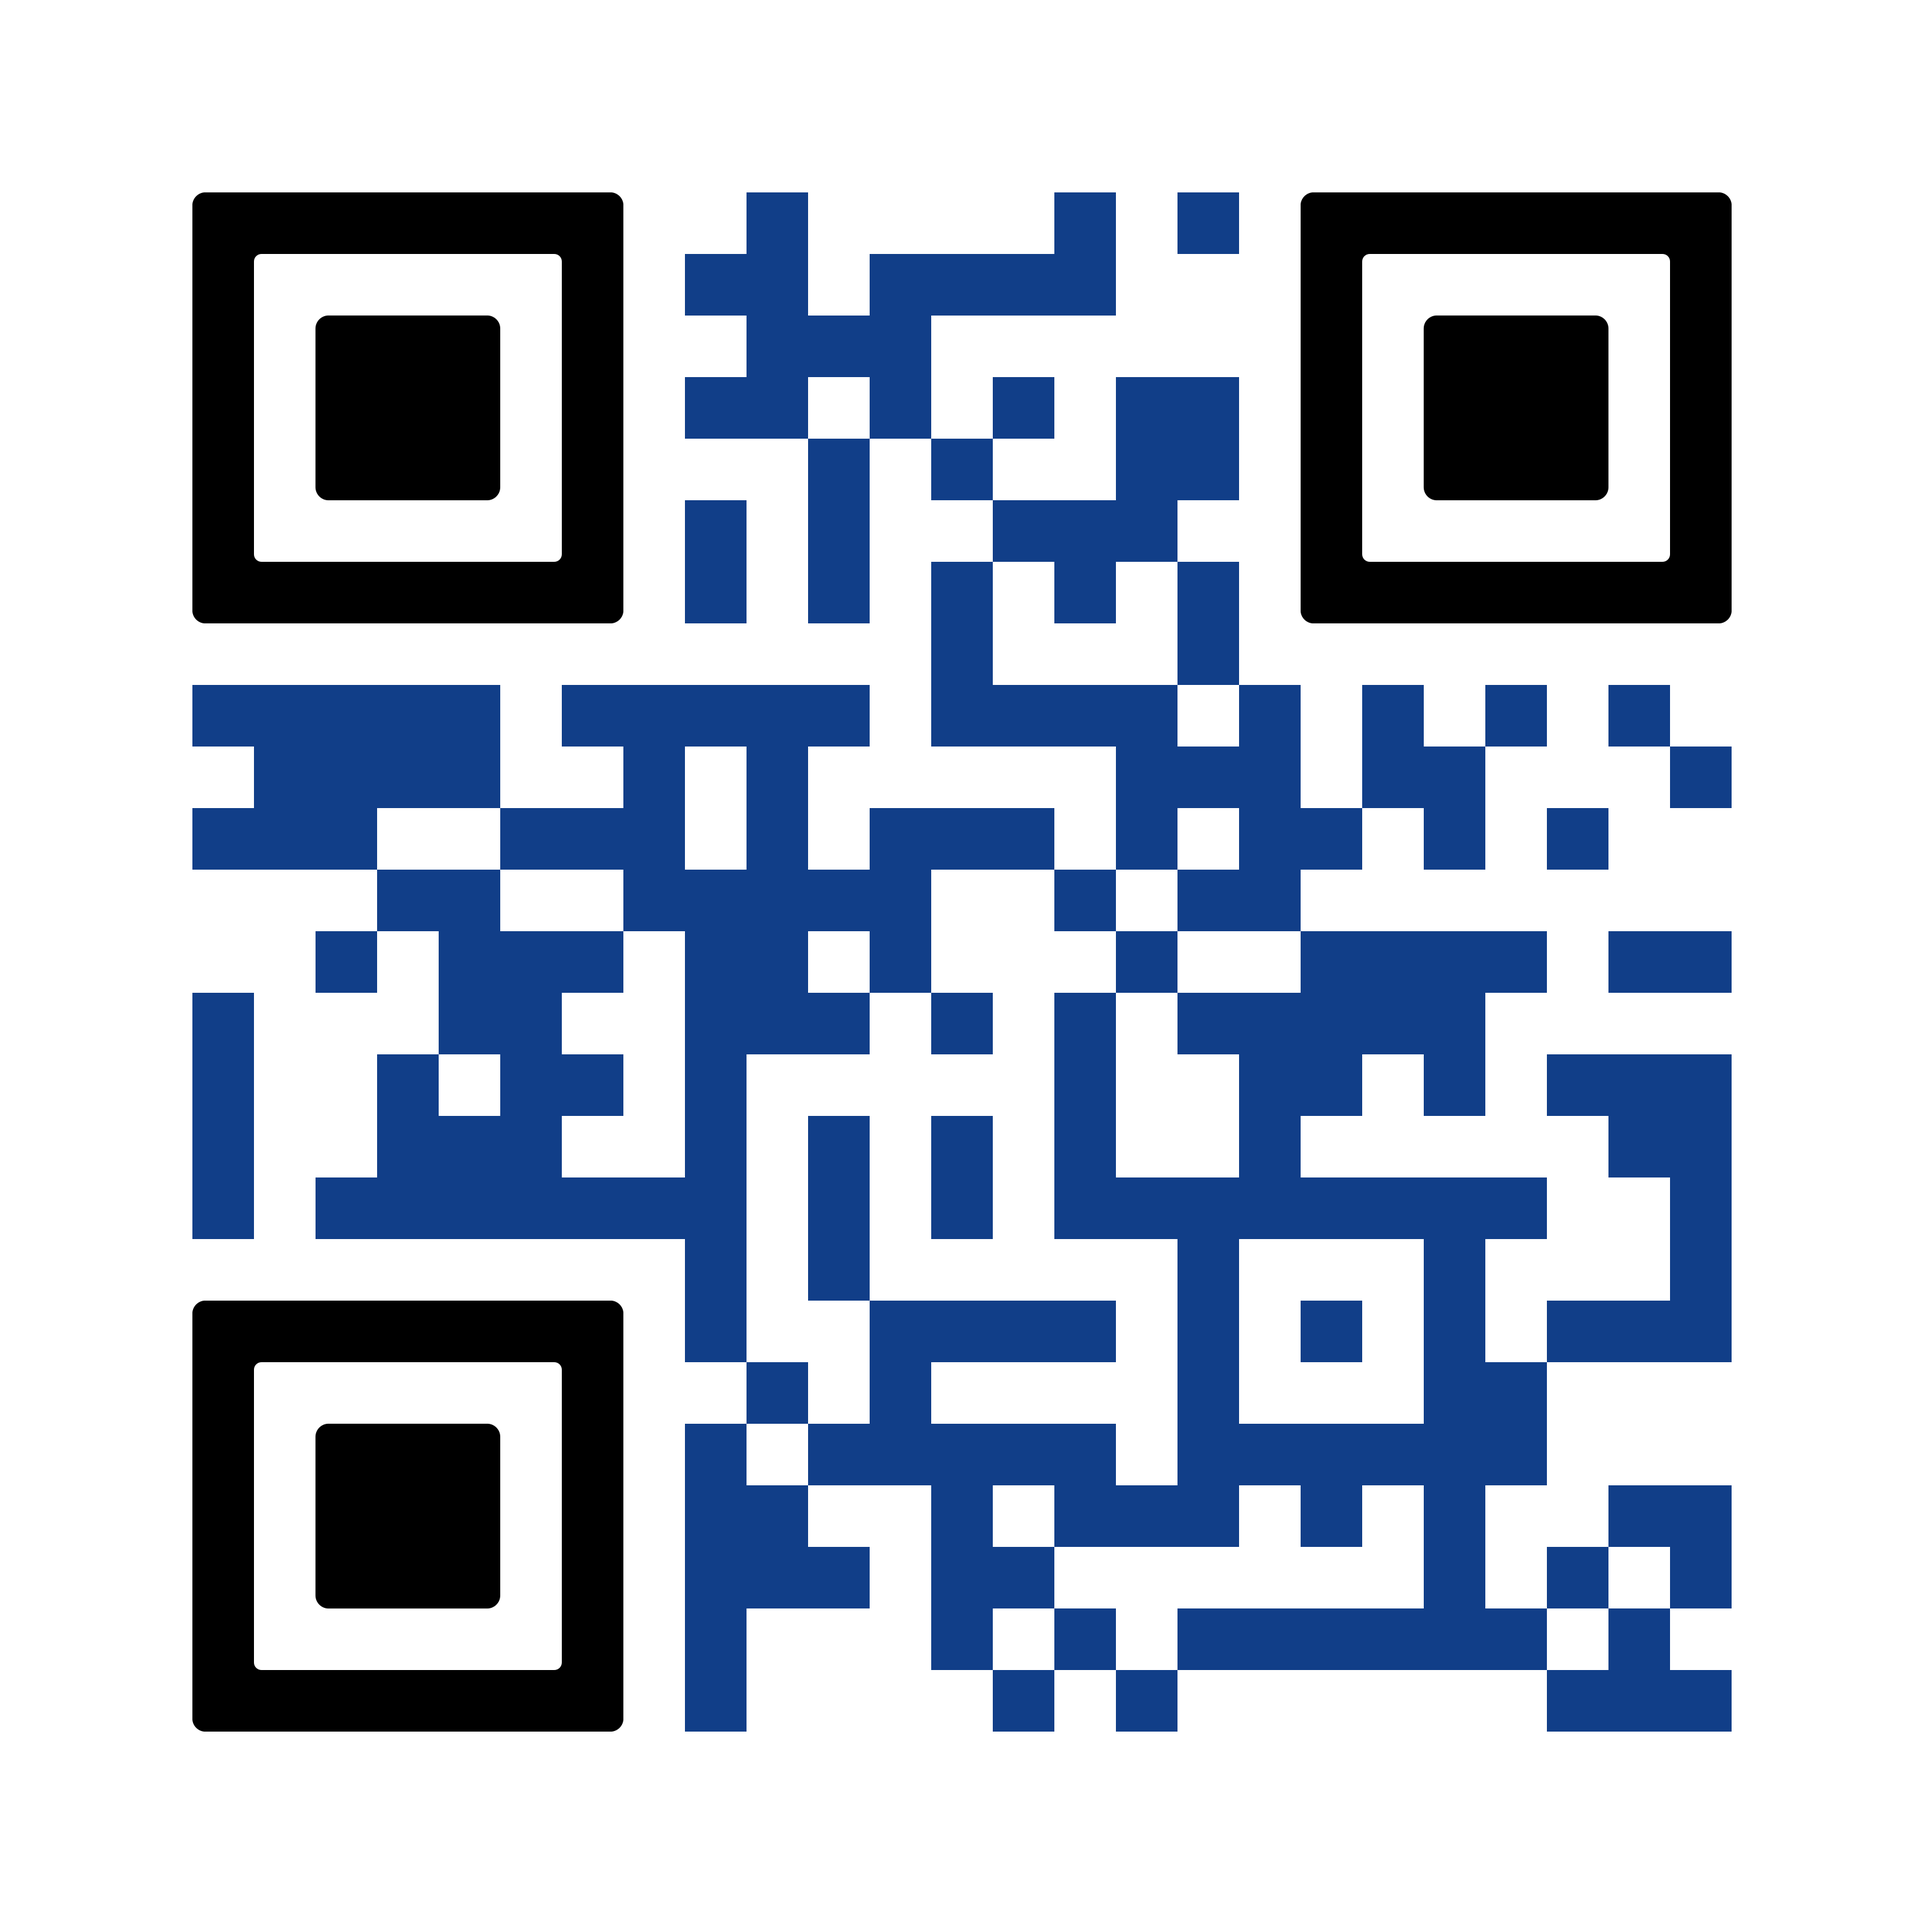
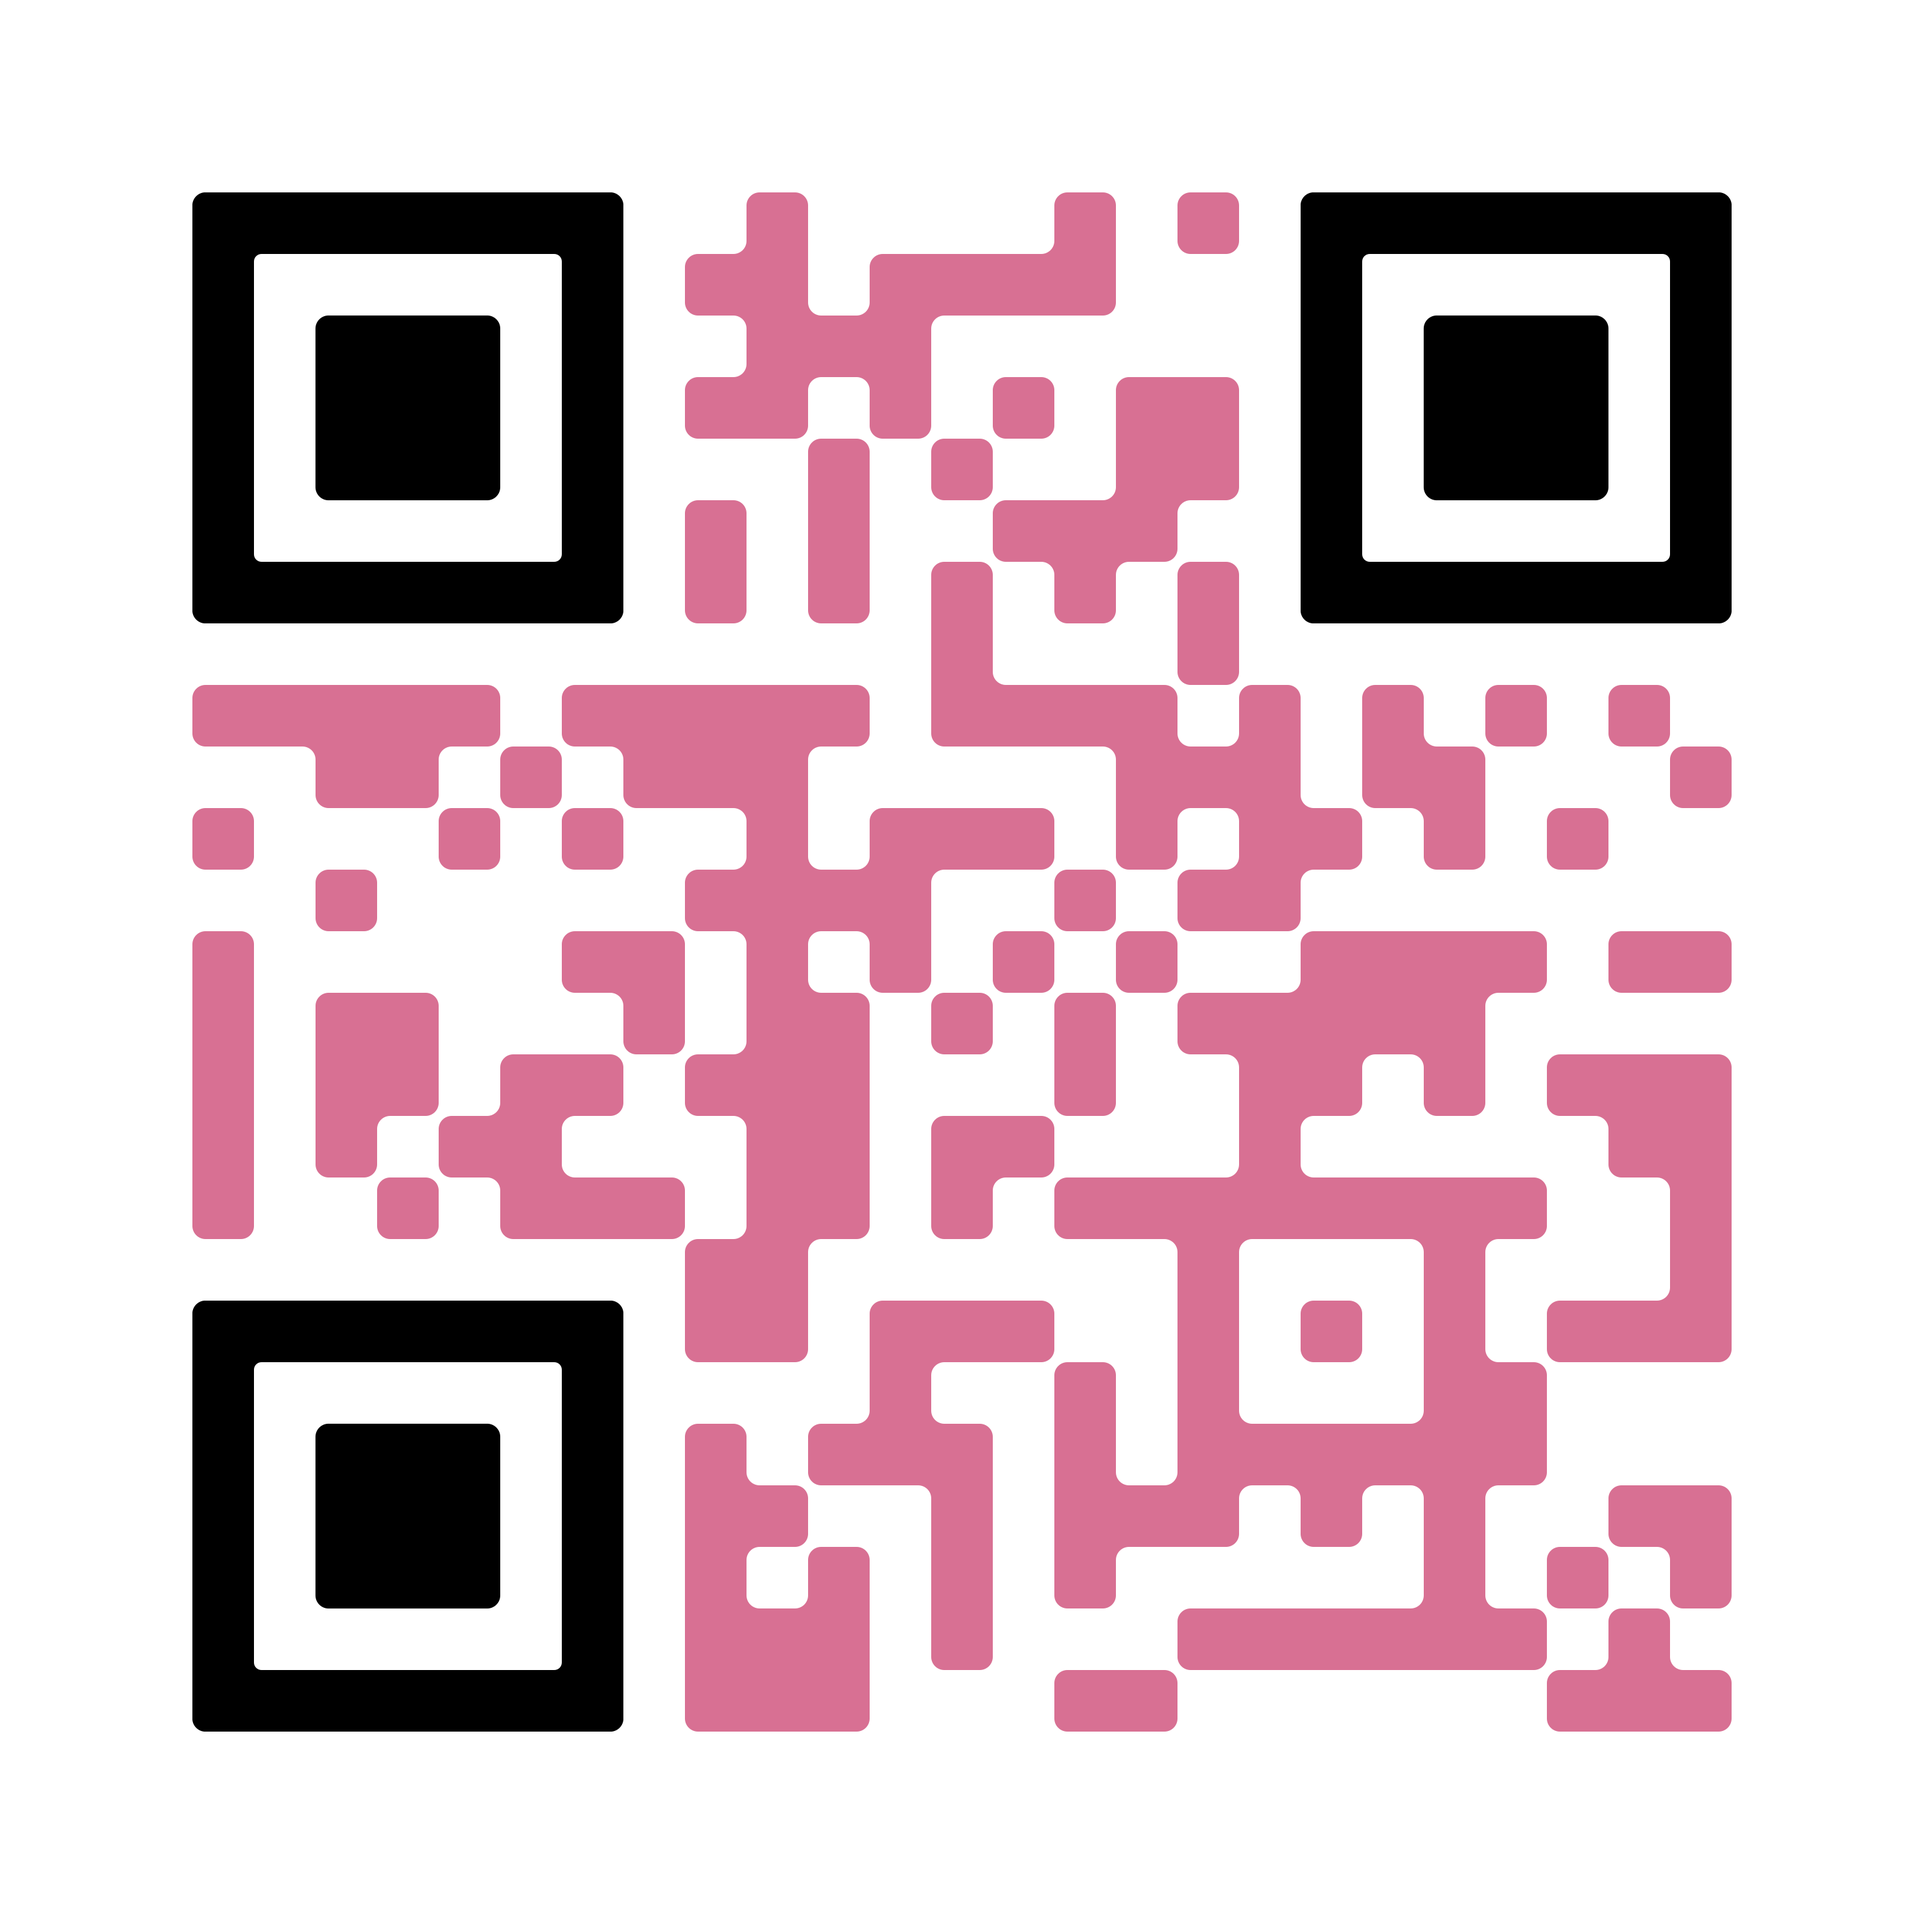
Changed the qr code and website link

diff --git a/src/Components/Landing/Landing.js b/src/Components/Landing/Landing.js
@@ -69,7 +69,7 @@ END:VCARD`;
       </span>
       {/* <h2>Manage media content and mobilize a team of 50+</h2> */}
       <div className="website-link-container">
-        <a href="">
+        <a href="https://www.kfanthony.com/" target="blank">
         <img src={world} height={40} alt="" />
         <p>KFANTHONY.COM</p>          
         </a>
